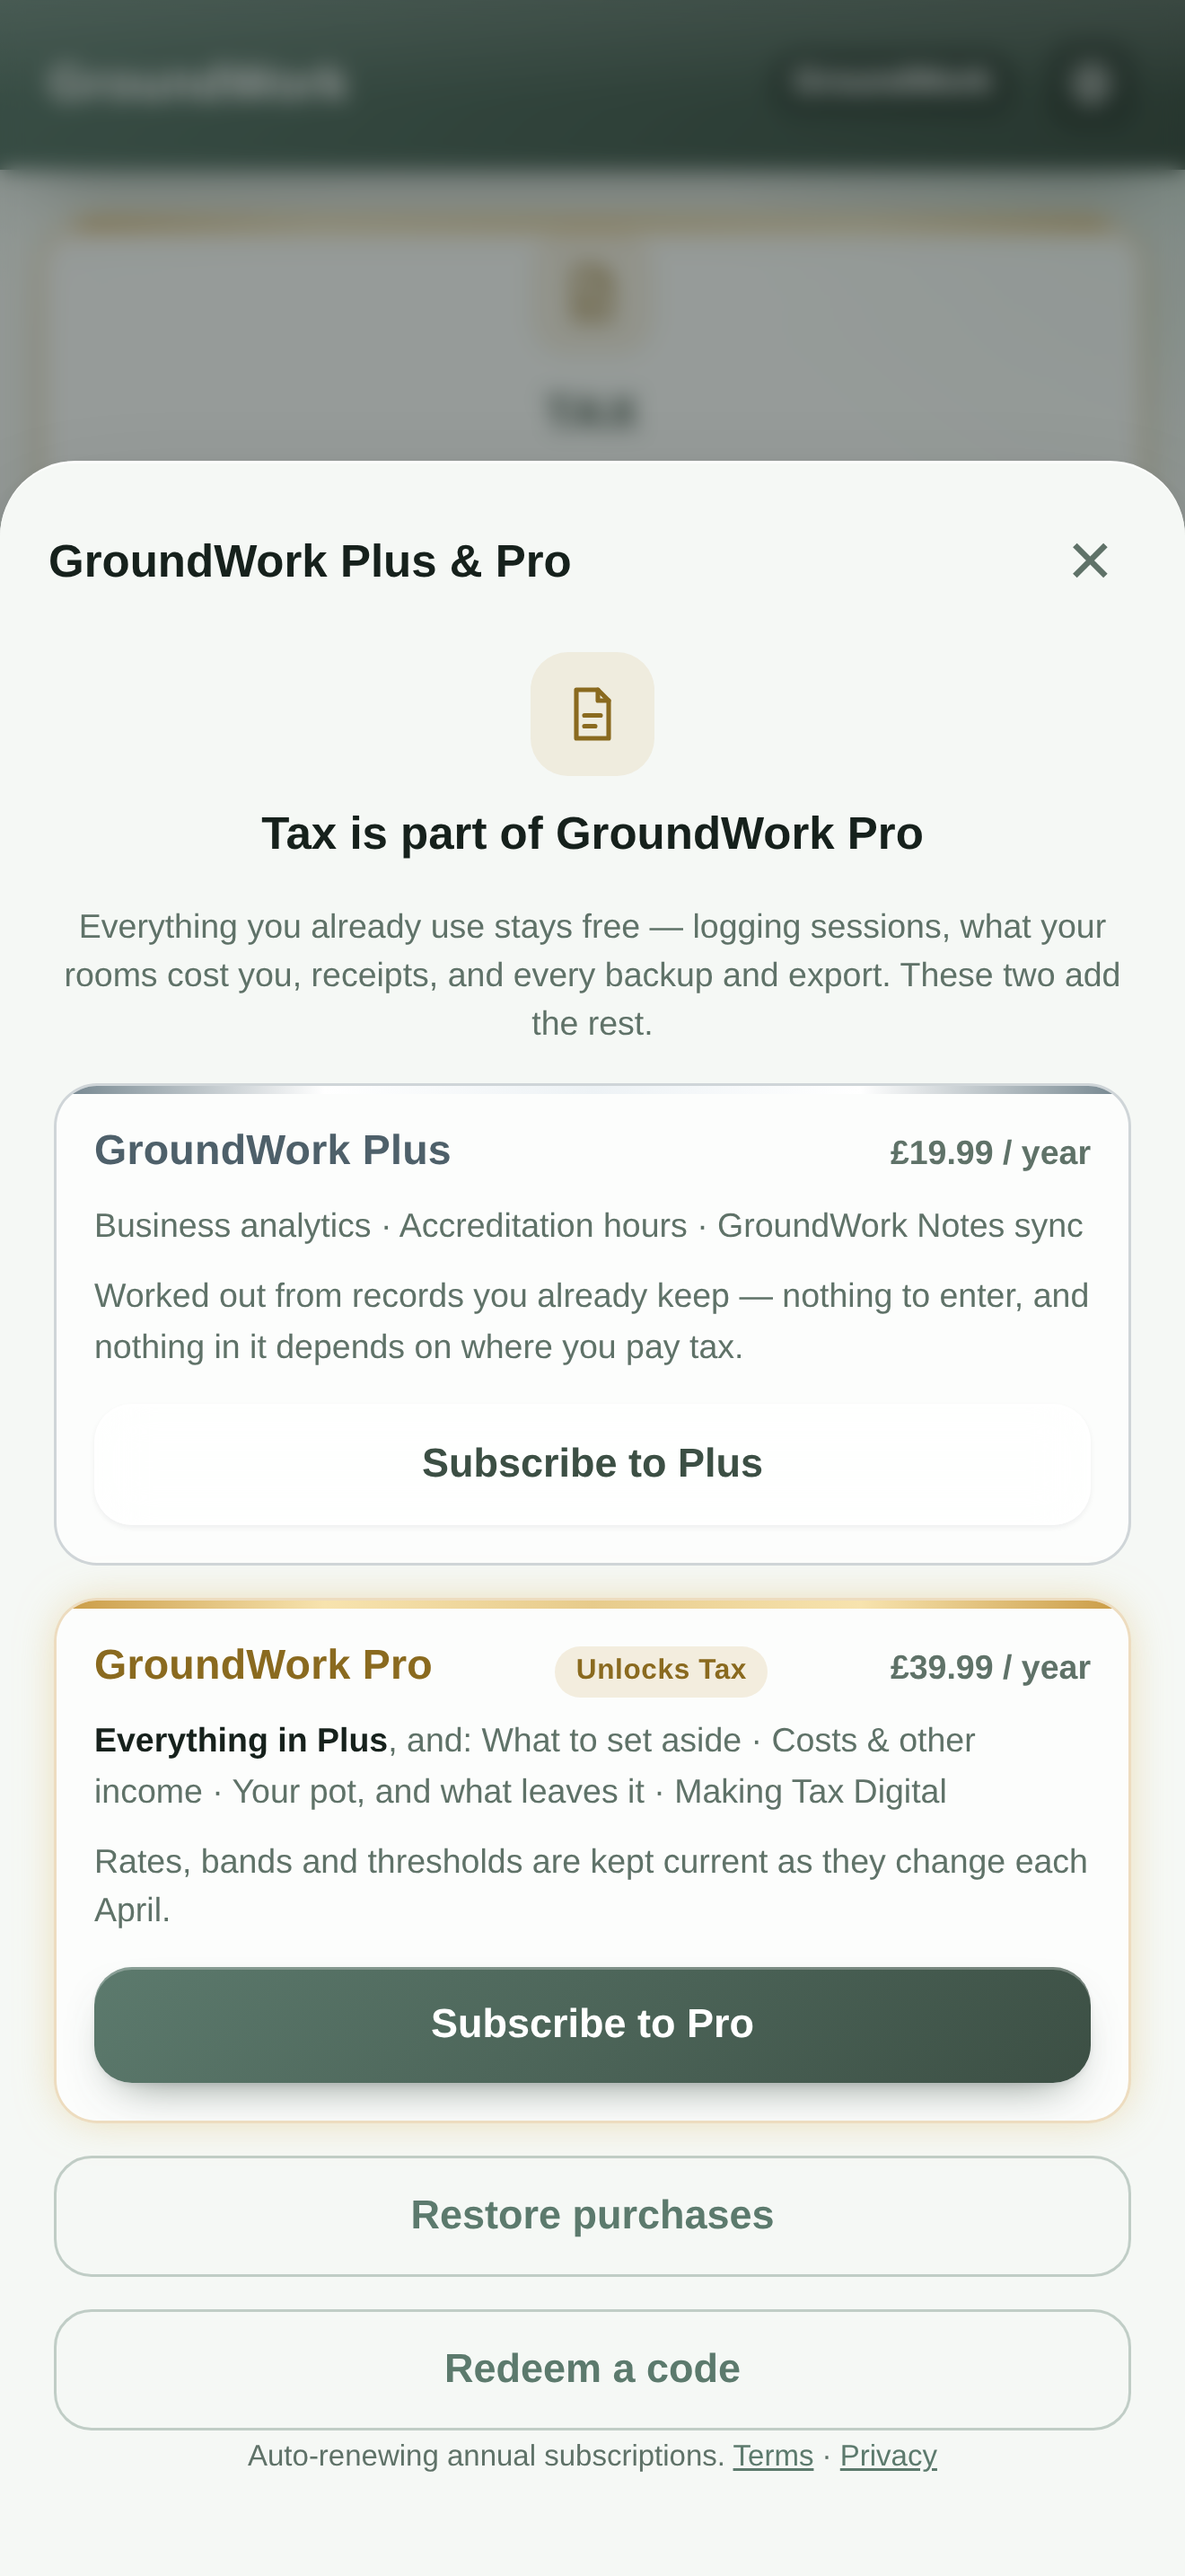
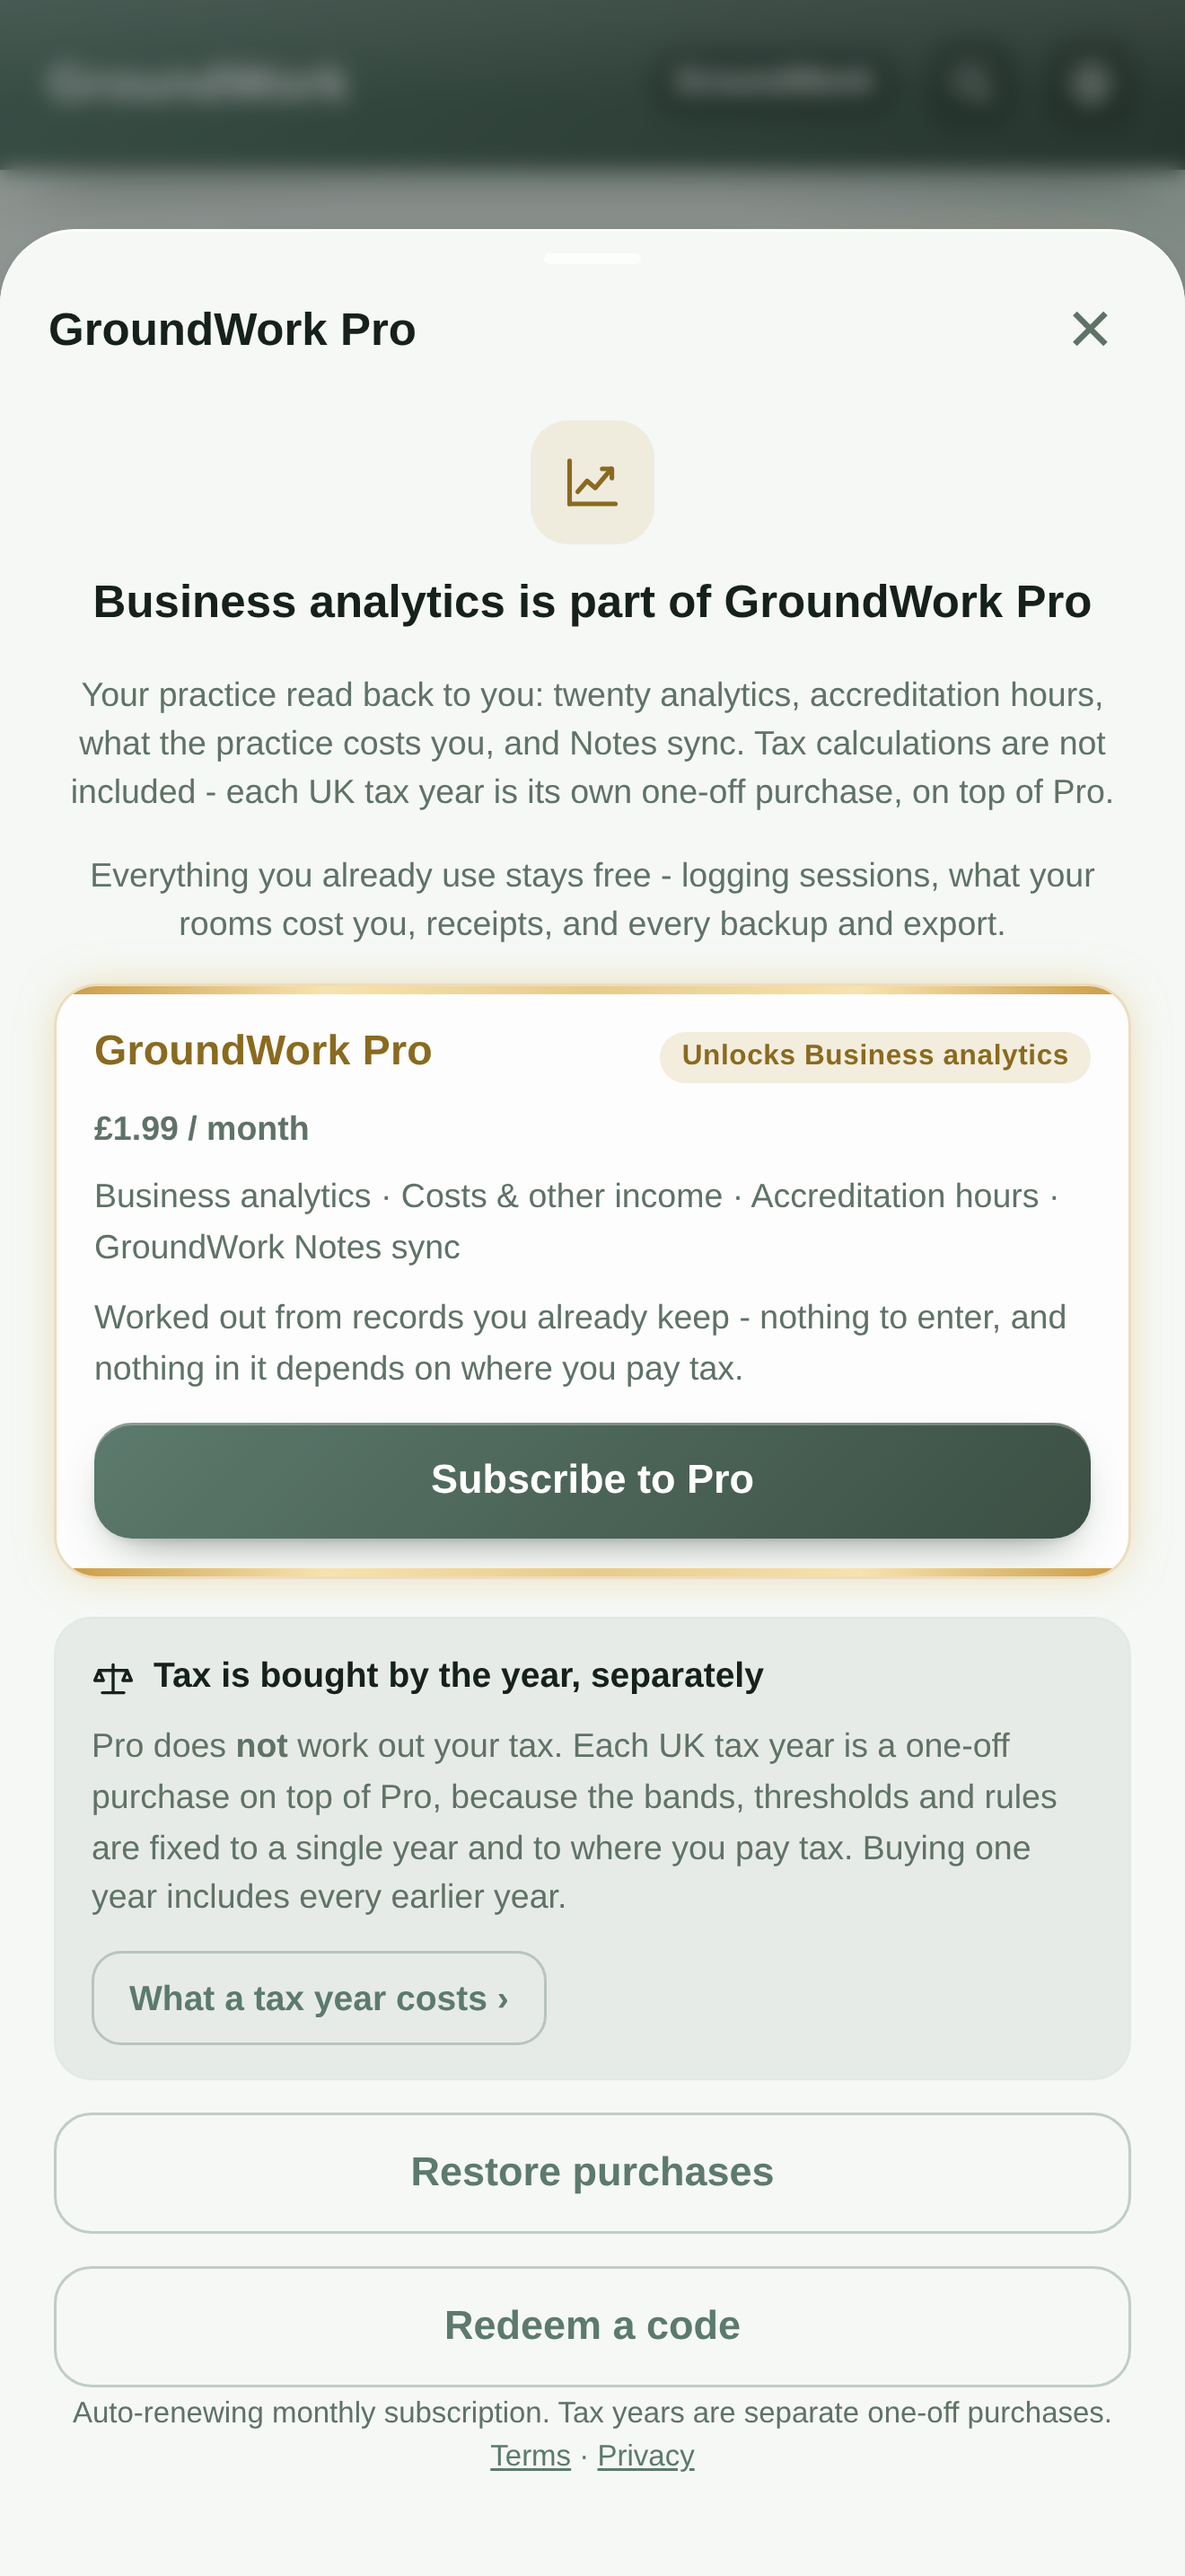
Render the review screenshots from the current paywall
The script still stubbed a `plus` product, asserted on a `#plPrice-plus`
element that no longer exists, and defaulted to `--reason tax` - which is
not a subscription lock any more, so it would have drawn the wrong sheet
had it got that far. It now speaks the current product shape, defaults to
a monthly period, and refuses `--reason tax|mtd` with a note saying where
that product's sheet actually is rather than rendering something wrong.

It also writes BOTH sheets. There are two kinds of product now and each
needs its own review screenshot: a reviewer looking at the non-consumable
needs to see where the tax year is offered, not where the subscription is.
`--sheet both` writes the pair.

Rendering it surfaced a real bug, and not only on this sheet: a disabled
.btn had no styling anywhere in the app, so the tax year's Buy button -
correctly disabled until the subscription underneath it is held - looked
exactly like a live one. It is now visibly dimmed, and says which step to
do first rather than leaving a dead control to be puzzled over. The same
rule covers either paywall when the store cannot answer for a product.

check-tiers gains that case, and with it the first stub of the store in
that suite - off-native the sheet says "sold in the iPhone app" and never
renders a Buy button, so the blocked state could not otherwise be reached.

Claude-Session: https://claude.ai/code/session_019f8ZrLjFoGJHkLGivRWy9d

Changed region(s): [[0.0, 0.031, 1.0, 0.962], [0.0311, 0.8999, 0.0621, 0.931], [0.0311, 0.8379, 0.0621, 0.8689]]

diff --git a/TherapyTracker-web/index.html b/TherapyTracker-web/index.html
@@ -698,6 +698,12 @@ nav.tabs button.on{color:var(--brand-dark);font-weight:700;box-shadow:none;
 .hanav{display:flex;gap:6px;flex:none}
 .hanav button{min-width:40px;padding:7px 9px;line-height:1}
 .hanav button:disabled{opacity:.35}
+/* A disabled .btn had no styling at all, so it looked exactly like a live one. Two places show
+   one: the tax year sheet's Buy while the subscription underneath it is not held, and either
+   paywall when the store could not answer for a product. Both are cases where the reader has to
+   be able to see at a glance that the button is not the next thing to press. */
+.btn:disabled,.btn[disabled]{opacity:.45;cursor:default;box-shadow:none;filter:saturate(.6)}
+.btn:disabled:active,.btn[disabled]:active{transform:none}
 optgroup{font-size:12px;color:var(--muted)} optgroup option{font-size:16px;color:var(--ink)}
 .toast{position:fixed;bottom:100px;left:50%;transform:translateX(-50%);background:var(--brand);color:#fff;
   padding:11px 18px;border-radius:24px;font-size:14px;z-index:60;opacity:0;transition:opacity .2s;pointer-events:none;box-shadow:0 6px 18px rgba(0,0,0,.3)}
@@ -2491,7 +2497,11 @@ function openTaxPackSheet(ty){
         :'<div class="tcname"><span></span><span class="tcprice" id="plPrice-'+esc(ty)+'">'+(nat?"…":"")+'</span></div>'+
          '<div class="plfeat">'+TAX_PACK_SELL.map(f=>'<div><b>'+esc(f[0])+'</b> - '+esc(f[1])+'</div>').join("")+'</div>'+
          '<p class="tsd">'+esc(TAX_PACK_PROMISE)+'</p>'+
-         (nat?'<button class="btn full" data-buyty="'+esc(ty)+'"'+(hasPro?'':' disabled')+'>Buy '+esc(ty)+'</button>'
+         /* Disabled without Pro, and SAID rather than only shown: a dead button with no
+            explanation is a reader deciding for themselves what is wrong with it, and the
+            likeliest guess - "this app is broken" - is the wrong one. */
+         (nat?'<button class="btn full" data-buyty="'+esc(ty)+'"'+(hasPro?'':' disabled')+'>Buy '+esc(ty)+'</button>'+
+              (hasPro?'':'<p class="tsd" style="text-align:center">Subscribe to '+esc(tierName("pro"))+' first, in step 1 above.</p>')
              :'<p class="tsd">Tax years are sold in the iPhone app.</p>'))+
     (nat?'<button class="btn ghost full mt" id="tpRestore">Already bought this? Restore purchases</button>':'')+
     '<p class="prev">One-off purchase, per tax year. Estimates, not tax advice. '+

diff --git a/docs/plus-launch-checklist.md b/docs/plus-launch-checklist.md
@@ -164,7 +164,9 @@ Auto-Renewable (a tax year does not renew; the *next* year is a different produc
       *"Works out your 2026-27 tax, and every earlier tax year: what you are on track to owe,
       what to keep back for it, payments on account, and that year's Making Tax Digital export.
       A one-off purchase - it does not expire. Requires GroundWork Pro."*
-- [ ] **Review screenshot** - the same paywall image is fine.
+- [ ] **Review screenshot** - this product has its **own**, because a reviewer looking at the
+      non-consumable needs to see where *it* is offered, not where the subscription is:
+      `TherapyTracker-web/icon-ideas/groundwork/taxyear-review-screenshot.png`
 - [ ] **Product image** - there is no tax-year artwork yet. Reuse the gold Pro image.
 
 **Then create next year too, now.** `…taxyear.2027` (UK tax year 2027-28). A product takes time to
@@ -189,13 +191,22 @@ anywhere at all.
 > *Missing Metadata* - so a TestFlight paywall can only ever say "unavailable right now", which is
 > the one image you must not give a reviewer.
 >
-> `node scripts/render-paywall-screenshot.mjs --price "£4.99"` breaks it with no Mac and no live
-> product: it loads the real `index.html`, forces the gate on, stubs **only** the store, opens the
-> shipping `openPlusSheet()` and captures it at 1320×2868 (iPhone 6.9"). Every pixel but the price
-> is the real app.
+> `node scripts/render-paywall-screenshot.mjs` breaks it with no Mac and no live product: it loads
+> the real `index.html`, forces the gate on, stubs **only** the store, opens the shipping
+> `openPlusSheet()` / `openTaxPackSheet()` and captures them at 1320×2868 (iPhone 6.9"). Every
+> pixel but the price is the real app.
 >
-> The price is a placeholder. Re-run with the real `--price` once step 2 is saved, and swap in a
-> genuine device screenshot before you submit for review.
+> ```bash
+> node scripts/render-paywall-screenshot.mjs \
+>   --price "£1.99" --period month --price-year "£24.99" --sheet both
+> ```
+>
+> **Two images, because there are two kinds of product**: `--sheet pro` writes
+> `paywall-review-screenshot.png`, `--sheet tax` writes `taxyear-review-screenshot.png`, and
+> `--sheet both` does both in one run. Add `--dark` for the dark-theme pair.
+>
+> The prices are placeholders. Re-run with the real figures once step 2 is saved, and swap in
+> genuine device screenshots before you submit for review.
 
 ### 2f. What "done" looks like
 
